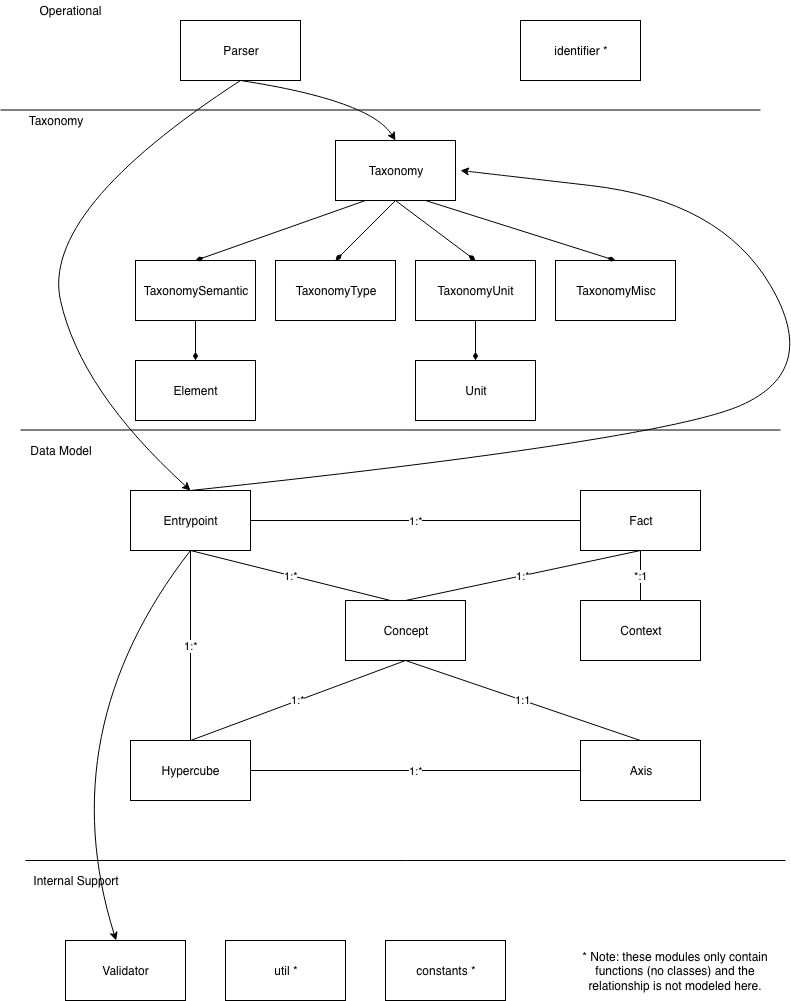
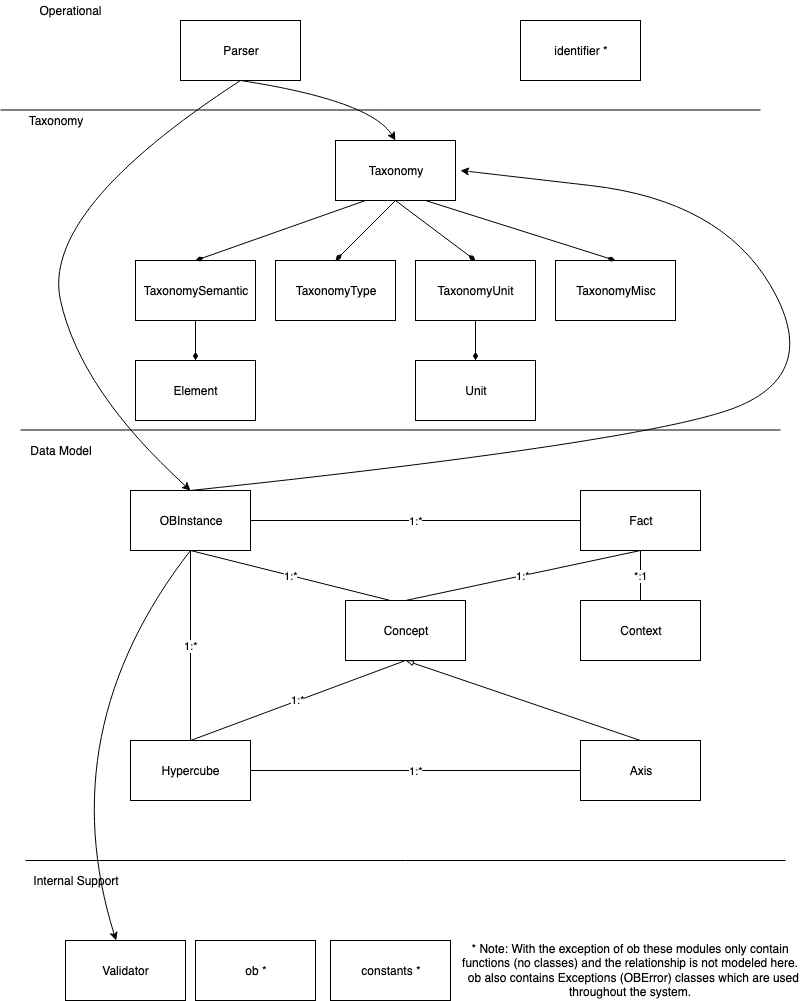
Updated diagram and added units to some test cases (#146)

diff --git a/oblib/tests/test_json_clips.py b/oblib/tests/test_json_clips.py
@@ -969,6 +969,7 @@ CLIPS = [
             "concept": "solar:EstimationPeriodForCurtailment",
             "entity": "JUPITER",
             "period": "2017-11-30T00:00:00",
+            "unit": "H",
             "solar:PVSystemIdentifierAxis": "1",
             "solar:EstimationPeriodStartDateAxis": "1"
         }
@@ -982,6 +983,7 @@ CLIPS = [
             "concept": "solar:EstimationPeriodForCurtailment",
             "entity": "JUPITER",
             "period": "2017-11-30T00:00:00",
+            "unit": "H",            
             "solar:PVSystemIdentifierAxis": "1",
             "solar:EstimationPeriodStartDateAxis": "1"
         }
@@ -995,6 +997,7 @@ CLIPS = [
             "concept": "solar:EstimationPeriodForCurtailment",
             "entity": "JUPITER",
             "period": "2017-11-30T00:00:00",
+            "unit": "H",            
             "solar:PVSystemIdentifierAxis": "1",
             "solar:EstimationPeriodStartDateAxis": "1"
         }
@@ -1008,6 +1011,7 @@ CLIPS = [
             "concept": "solar:EstimationPeriodForCurtailment",
             "entity": "JUPITER",
             "period": "2017-11-30T00:00:00",
+            "unit": "H",            
             "solar:PVSystemIdentifierAxis": "1",
             "solar:EstimationPeriodStartDateAxis": "1"
         }
@@ -1021,6 +1025,7 @@ CLIPS = [
             "concept": "solar:EstimationPeriodForCurtailment",
             "entity": "JUPITER",
             "period": "2017-11-30T00:00:00",
+            "unit": "H",            
             "solar:PVSystemIdentifierAxis": "1",
             "solar:EstimationPeriodStartDateAxis": "1"
         }
@@ -1034,6 +1039,7 @@ CLIPS = [
             "concept": "solar:EstimationPeriodForCurtailment",
             "entity": "JUPITER",
             "period": "2017-11-30T00:00:00",
+            "unit": "H",            
             "solar:PVSystemIdentifierAxis": "1",
             "solar:EstimationPeriodStartDateAxis": "1"
         }
@@ -1047,6 +1053,7 @@ CLIPS = [
             "concept": "solar:EstimationPeriodForCurtailment",
             "entity": "JUPITER",
             "period": "2017-11-30T00:00:00",
+            "unit": "H",            
             "solar:PVSystemIdentifierAxis": "1",
             "solar:EstimationPeriodStartDateAxis": "1"
         }
@@ -1060,6 +1067,7 @@ CLIPS = [
             "concept": "solar:EstimationPeriodForCurtailment",
             "entity": "JUPITER",
             "period": "2017-11-30T00:00:00",
+            "unit": "H",            
             "solar:PVSystemIdentifierAxis": "1",
             "solar:EstimationPeriodStartDateAxis": "1"
         }
@@ -1073,6 +1081,7 @@ CLIPS = [
             "concept": "solar:EstimationPeriodForCurtailment",
             "entity": "JUPITER",
             "period": "2017-11-30T00:00:00",
+            "unit": "H",            
             "solar:PVSystemIdentifierAxis": "1",
             "solar:EstimationPeriodStartDateAxis": "1"
         }
@@ -1086,6 +1095,7 @@ CLIPS = [
             "concept": "solar:EstimationPeriodForCurtailment",
             "entity": "JUPITER",
             "period": "2017-11-30T00:00:00",
+            "unit": "H",            
             "solar:PVSystemIdentifierAxis": "1",
             "solar:EstimationPeriodStartDateAxis": "1"
         }
@@ -1099,6 +1109,7 @@ CLIPS = [
             "concept": "solar:EstimationPeriodForCurtailment",
             "entity": "JUPITER",
             "period": "2017-11-30T00:00:00",
+            "unit": "H",            
             "solar:PVSystemIdentifierAxis": "1",
             "solar:EstimationPeriodStartDateAxis": "1"
         }
@@ -1112,6 +1123,7 @@ CLIPS = [
             "concept": "solar:EstimationPeriodForCurtailment",
             "entity": "JUPITER",
             "period": "2017-11-30T00:00:00",
+            "unit": "H",            
             "solar:PVSystemIdentifierAxis": "1",
             "solar:EstimationPeriodStartDateAxis": "1"
         }
@@ -1125,6 +1137,7 @@ CLIPS = [
             "concept": "solar:EstimationPeriodForCurtailment",
             "entity": "JUPITER",
             "period": "2017-11-30T00:00:00",
+            "unit": "H",            
             "solar:PVSystemIdentifierAxis": "1",
             "solar:EstimationPeriodStartDateAxis": "1"
         }
@@ -1275,7 +1288,8 @@ CLIPS = [
         "aspects": {
             "concept": "us-gaap:PrepaidExpenseCurrentAndNoncurrent",
             "entity": "JUPITER",
-            "period": "2017-11-30T00:00:00"
+            "period": "2017-11-30T00:00:00",
+            "unit": "USD"
         }
     }
     """
@@ -1568,6 +1582,7 @@ CLIPS = [
             "concept": "solar:ModuleShortCircuitCurrent",
             "entity": "JUPITER",
             "period": "2017-11-01T00:00:00/2017-11-30T00:00:00",
+            "unit": "A",
             "solar:TestConditionAxis": "solar:CustomTestConditionMember",
             "solar:ProductIdentifierAxis": "1"
         }
@@ -1594,6 +1609,7 @@ CLIPS = [
             "concept": "solar:InverterOutputRatedFrequency",
             "entity": "JUPITER",
             "period": "2017-11-01T00:00:00/2017-11-30T00:00:00",
+            "unit": "Hz",
             "solar:TestConditionAxis": "solar:CustomTestConditionMember",
             "solar:ProductIdentifierAxis": "1"
         }
@@ -1677,6 +1693,7 @@ CLIPS = [
             "concept": "solar:TrackerAzimuth",
             "entity": "JUPITER",
             "period": "2017-11-01T00:00:00",
+            "unit": "Degree",
             "solar:DeviceIdentifierAxis": "1"
         }
     }
@@ -1713,6 +1730,7 @@ CLIPS = [
             "concept": "solar:SiteBarometricPressure",
             "entity": "JUPITER",
             "period": "2017-11-01T00:00:00",
+            "unit": "Pa",
             "solar:SiteIdentifierAxis": "1"
         }
     }
@@ -1758,11 +1776,12 @@ CLIPS = [
     ],
     [_ln(), None, None, 0, """
         "d5ead87b-58c6-4aab-9795-e7e92ca0bcf2": {
-        "value": false,
+        "value": "74.00",
         "aspects": {
             "concept": "solar:ModelAmbientTemperature",
             "entity": "JUPITER",
             "period": "2017-11-01T00:00:00/2017-11-30T00:00:00",
+            "unit": "F",
             "solar:PVSystemIdentifierAxis": "1"
         }
     }
@@ -1773,8 +1792,9 @@ CLIPS = [
         "value": false,
         "aspects": {
             "concept": "solar:ModelAmbientTemperature",
-            "entity": "JUPITER",
+            "entity": "JUPITER",   
             "period": "2017-11-01T00:00:00/2017-11-30T00:00:00",
+            "unit": "F",         
             "solar:PVSystemIdentifierAxis": "1"
         }
     }
@@ -1786,6 +1806,7 @@ CLIPS = [
         "aspects": {
             "concept": "solar:InverterInputMaximumVoltageDC",
             "entity": "JUPITER",
+            "unit": "V",
             "period": "2017-11-01T00:00:00/2017-11-30T00:00:00",
             "solar:TestConditionAxis": "solar:CustomTestConditionMember",
             "solar:ProductIdentifierAxis": "1"
@@ -1813,6 +1834,7 @@ CLIPS = [
             "concept": "solar:SiteAcreage",
             "entity": "JUPITER",
             "period": "2017-11-01T00:00:00/2017-11-30T00:00:00",
+            "unit": "acre",
             "solar:SiteIdentifierAxis": "1"
         }
     }
@@ -1837,6 +1859,7 @@ CLIPS = [
             "concept": "solar:ExpectedEnergyAtP50",
             "entity": "JUPITER",
             "period": "2017-11-01T00:00:00",
+            "unit": "J",
             "solar:PVSystemIdentifierAxis": "1",
             "solar:PeriodAxis": "solar:PeriodMonthMember"
         }
@@ -1858,11 +1881,12 @@ CLIPS = [
     ],
     [_ln(), "CutSheet", None, 0, """
         "d5ead87b-58c6-4aab-9795-e7e92ca0bcf2": {
-        "value": false,
+        "value": "425.00",
         "aspects": {
             "concept": "solar:ModuleLength",
             "entity": "JUPITER",
             "period": "2017-11-01T00:00:00/2017-11-30T00:00:00",
+            "unit": "cm",
             "solar:TestConditionAxis": "solar:CustomTestConditionMember",
             "solar:ProductIdentifierAxis": "1"
         }
@@ -1889,6 +1913,7 @@ CLIPS = [
             "concept": "solar:InverterWeight",
             "entity": "JUPITER",
             "period": "2017-11-01T00:00:00/2017-11-30T00:00:00",
+            "unit": "kg",
             "solar:TestConditionAxis": "solar:CustomTestConditionMember",
             "solar:ProductIdentifierAxis": "1"
         }
@@ -1914,7 +1939,8 @@ CLIPS = [
         "aspects": {
             "concept": "solar:BatteryInverterACPowerRating",
             "entity": "JUPITER",
-            "period": "2017-11-01T00:00:00/2017-11-30T00:00:00"
+            "period": "2017-11-01T00:00:00/2017-11-30T00:00:00",
+            "unit": "W"
         }
     }
     """
@@ -1937,6 +1963,7 @@ CLIPS = [
             "concept": "solar:WashingAndWasteQuantityOfWater",
             "entity": "JUPITER",
             "period": "2017-11-01T00:00:00/2017-11-30T00:00:00",
+            "unit": "gal",
             "solar:SiteIdentifierAxis": "1"
         }
     }
